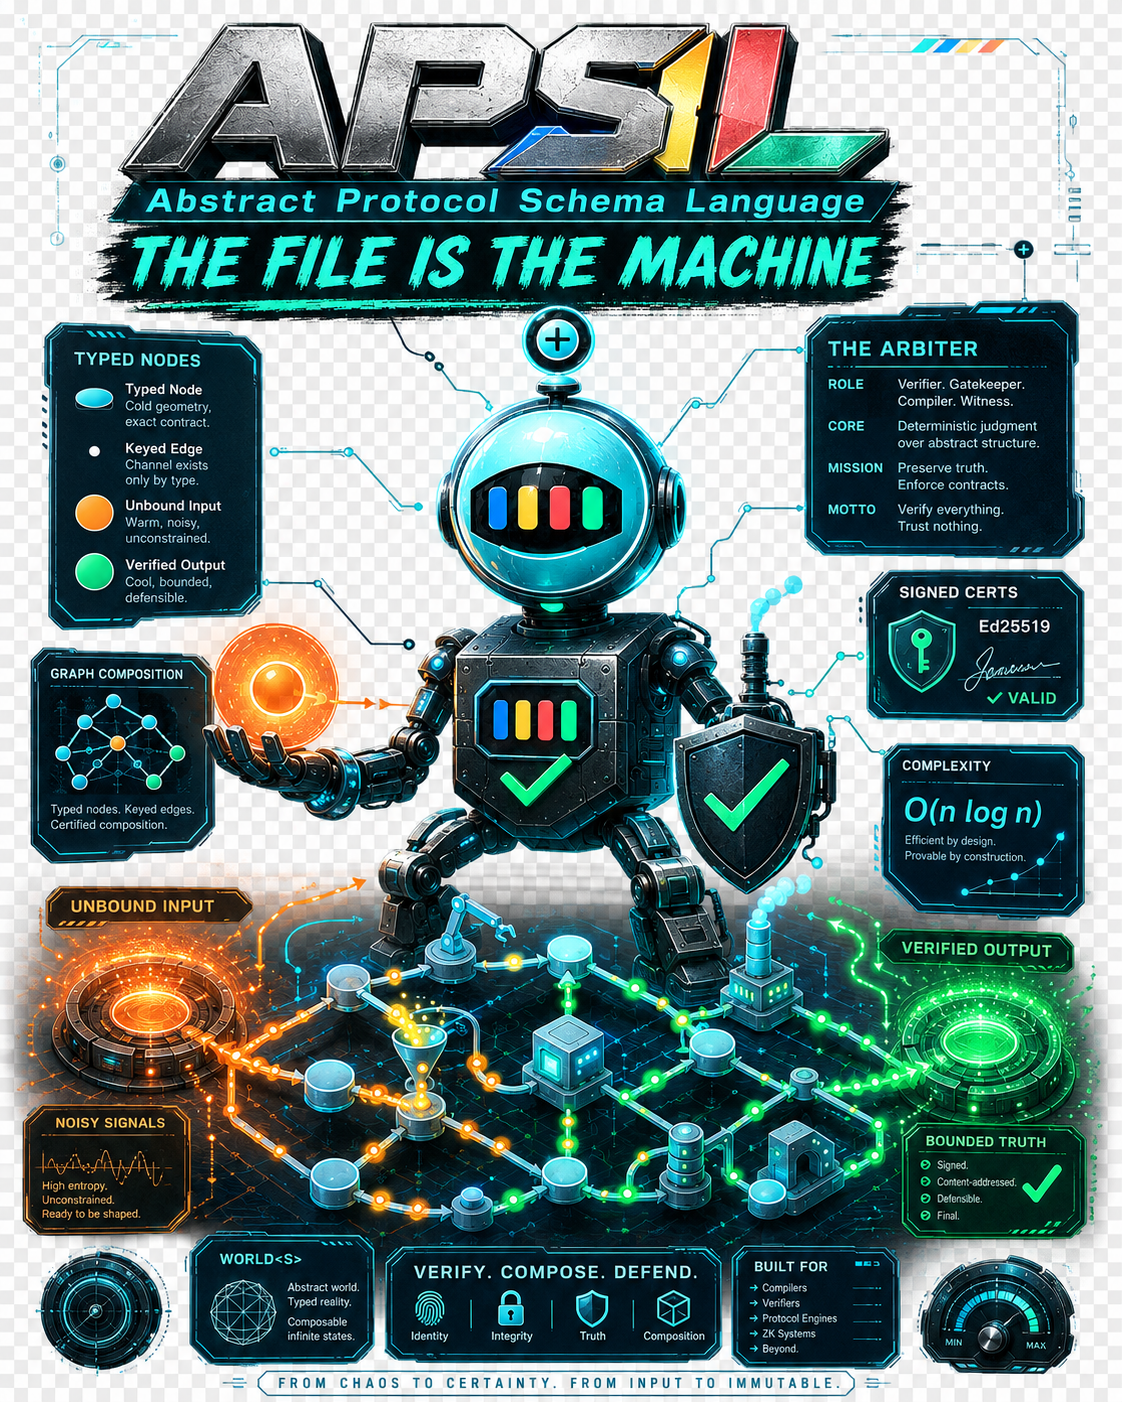
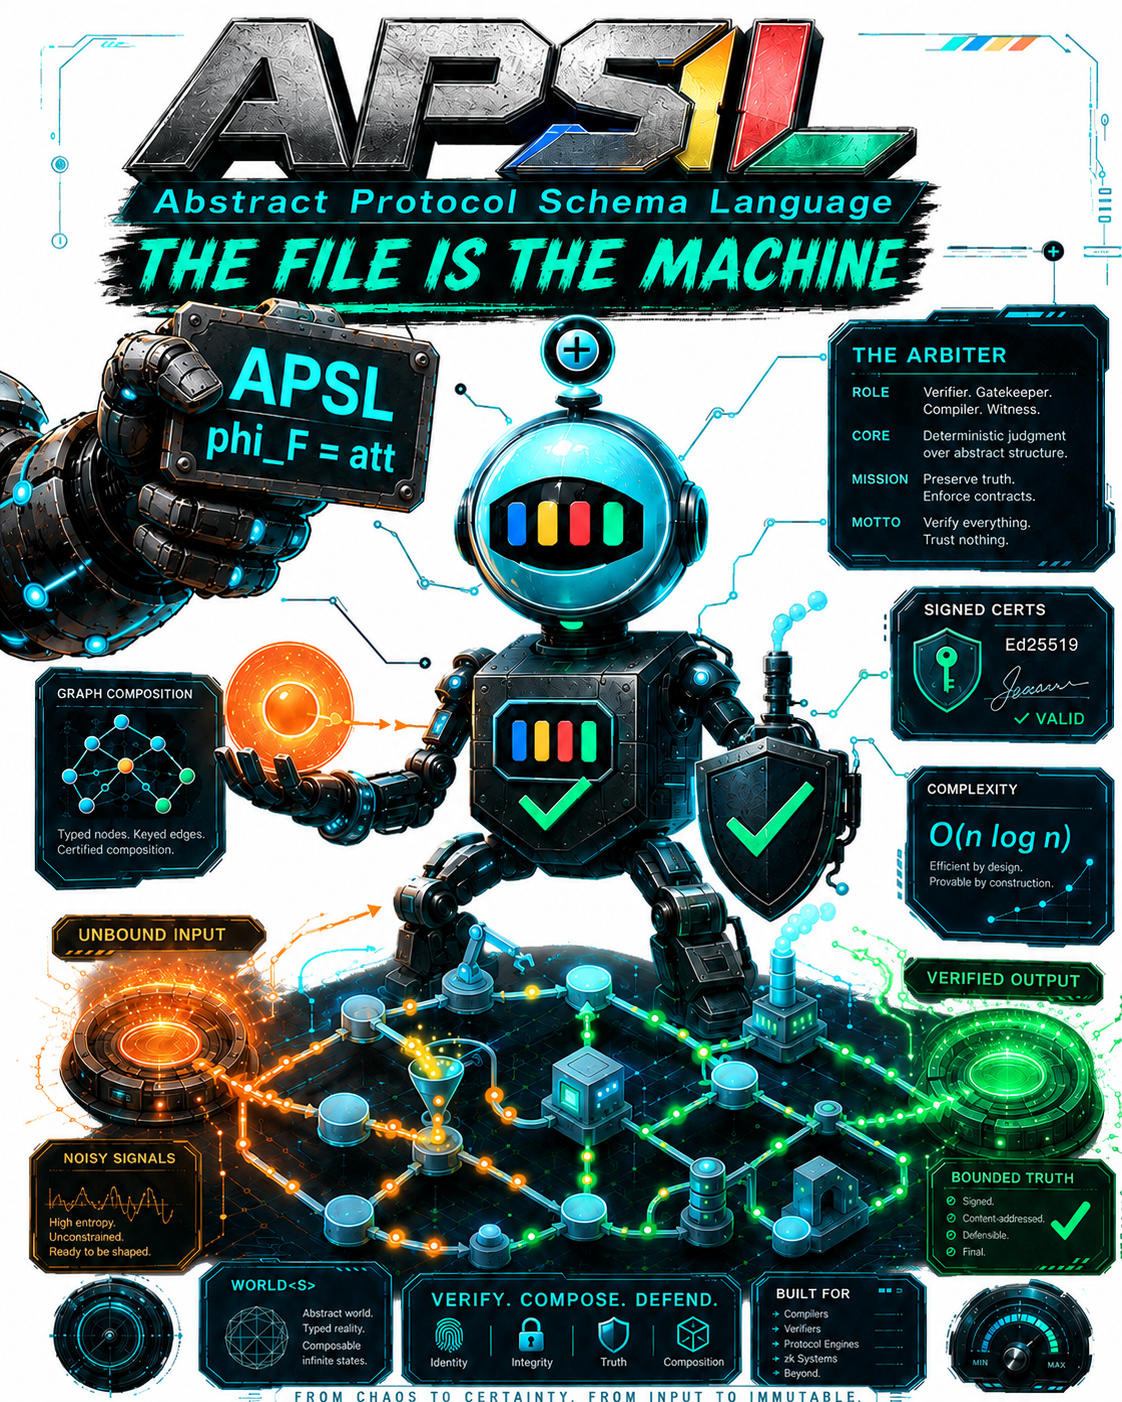
README: updated hero (white bg)

diff --git a/README.md b/README.md
@@ -1,7 +1,7 @@
 # APSL — Abstract Protocol Schema Language
 
 <p align="center">
-  <img src="assets/apsl-logo-transparent.png" alt="APSL ouroboros" width="360">
+  <img src="assets/apsl-the-file-is-the-machine.png" alt="APSL — the file is the machine" width="480">
 </p>
 
 [![License: Apache-2.0](https://img.shields.io/badge/license-Apache--2.0-blue.svg)](LICENSE)